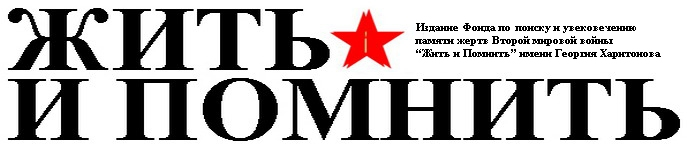
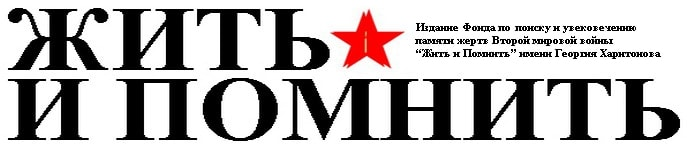
Images optimization

diff --git a/content/main.php b/content/main.php
@@ -1,4 +1,13 @@
                 <h2>Главная страница</h2>
-                <img src="images/about_rus.png" alt="">
-                <img src="images/star.png" alt="">
-                <img src="images/about_eng.png" alt="">
+				<picture>
+					<source srcset="images/about_rus.png">
+					<img src="images/about_rus.png" alt="">
+				</picture>
+				<picture>
+					<source srcset="images/star.png">
+					<img src="images/star.png" alt="">
+				</picture>
+				<picture>
+					<source srcset="images/about_eng.png">
+					<img src="images/about_eng.png" alt="">
+				</picture>

diff --git a/content/header.php b/content/header.php
@@ -1,6 +1,10 @@
 	<div class="header">
 		<div class="header-main">
-		<img src="images/header-logo.png" alt="">
+		<picture>
+			<source srcset="images/header-logo.png">
+			<img src="images/header-logo.png" alt="">
+		</picture>
+		<!--<img src="images/header-logo.png" alt="">-->
 		<!--<h2>Фонд "Жить и Помнить"</h2>-->
 			<div class="header-links">
 				<ul>
